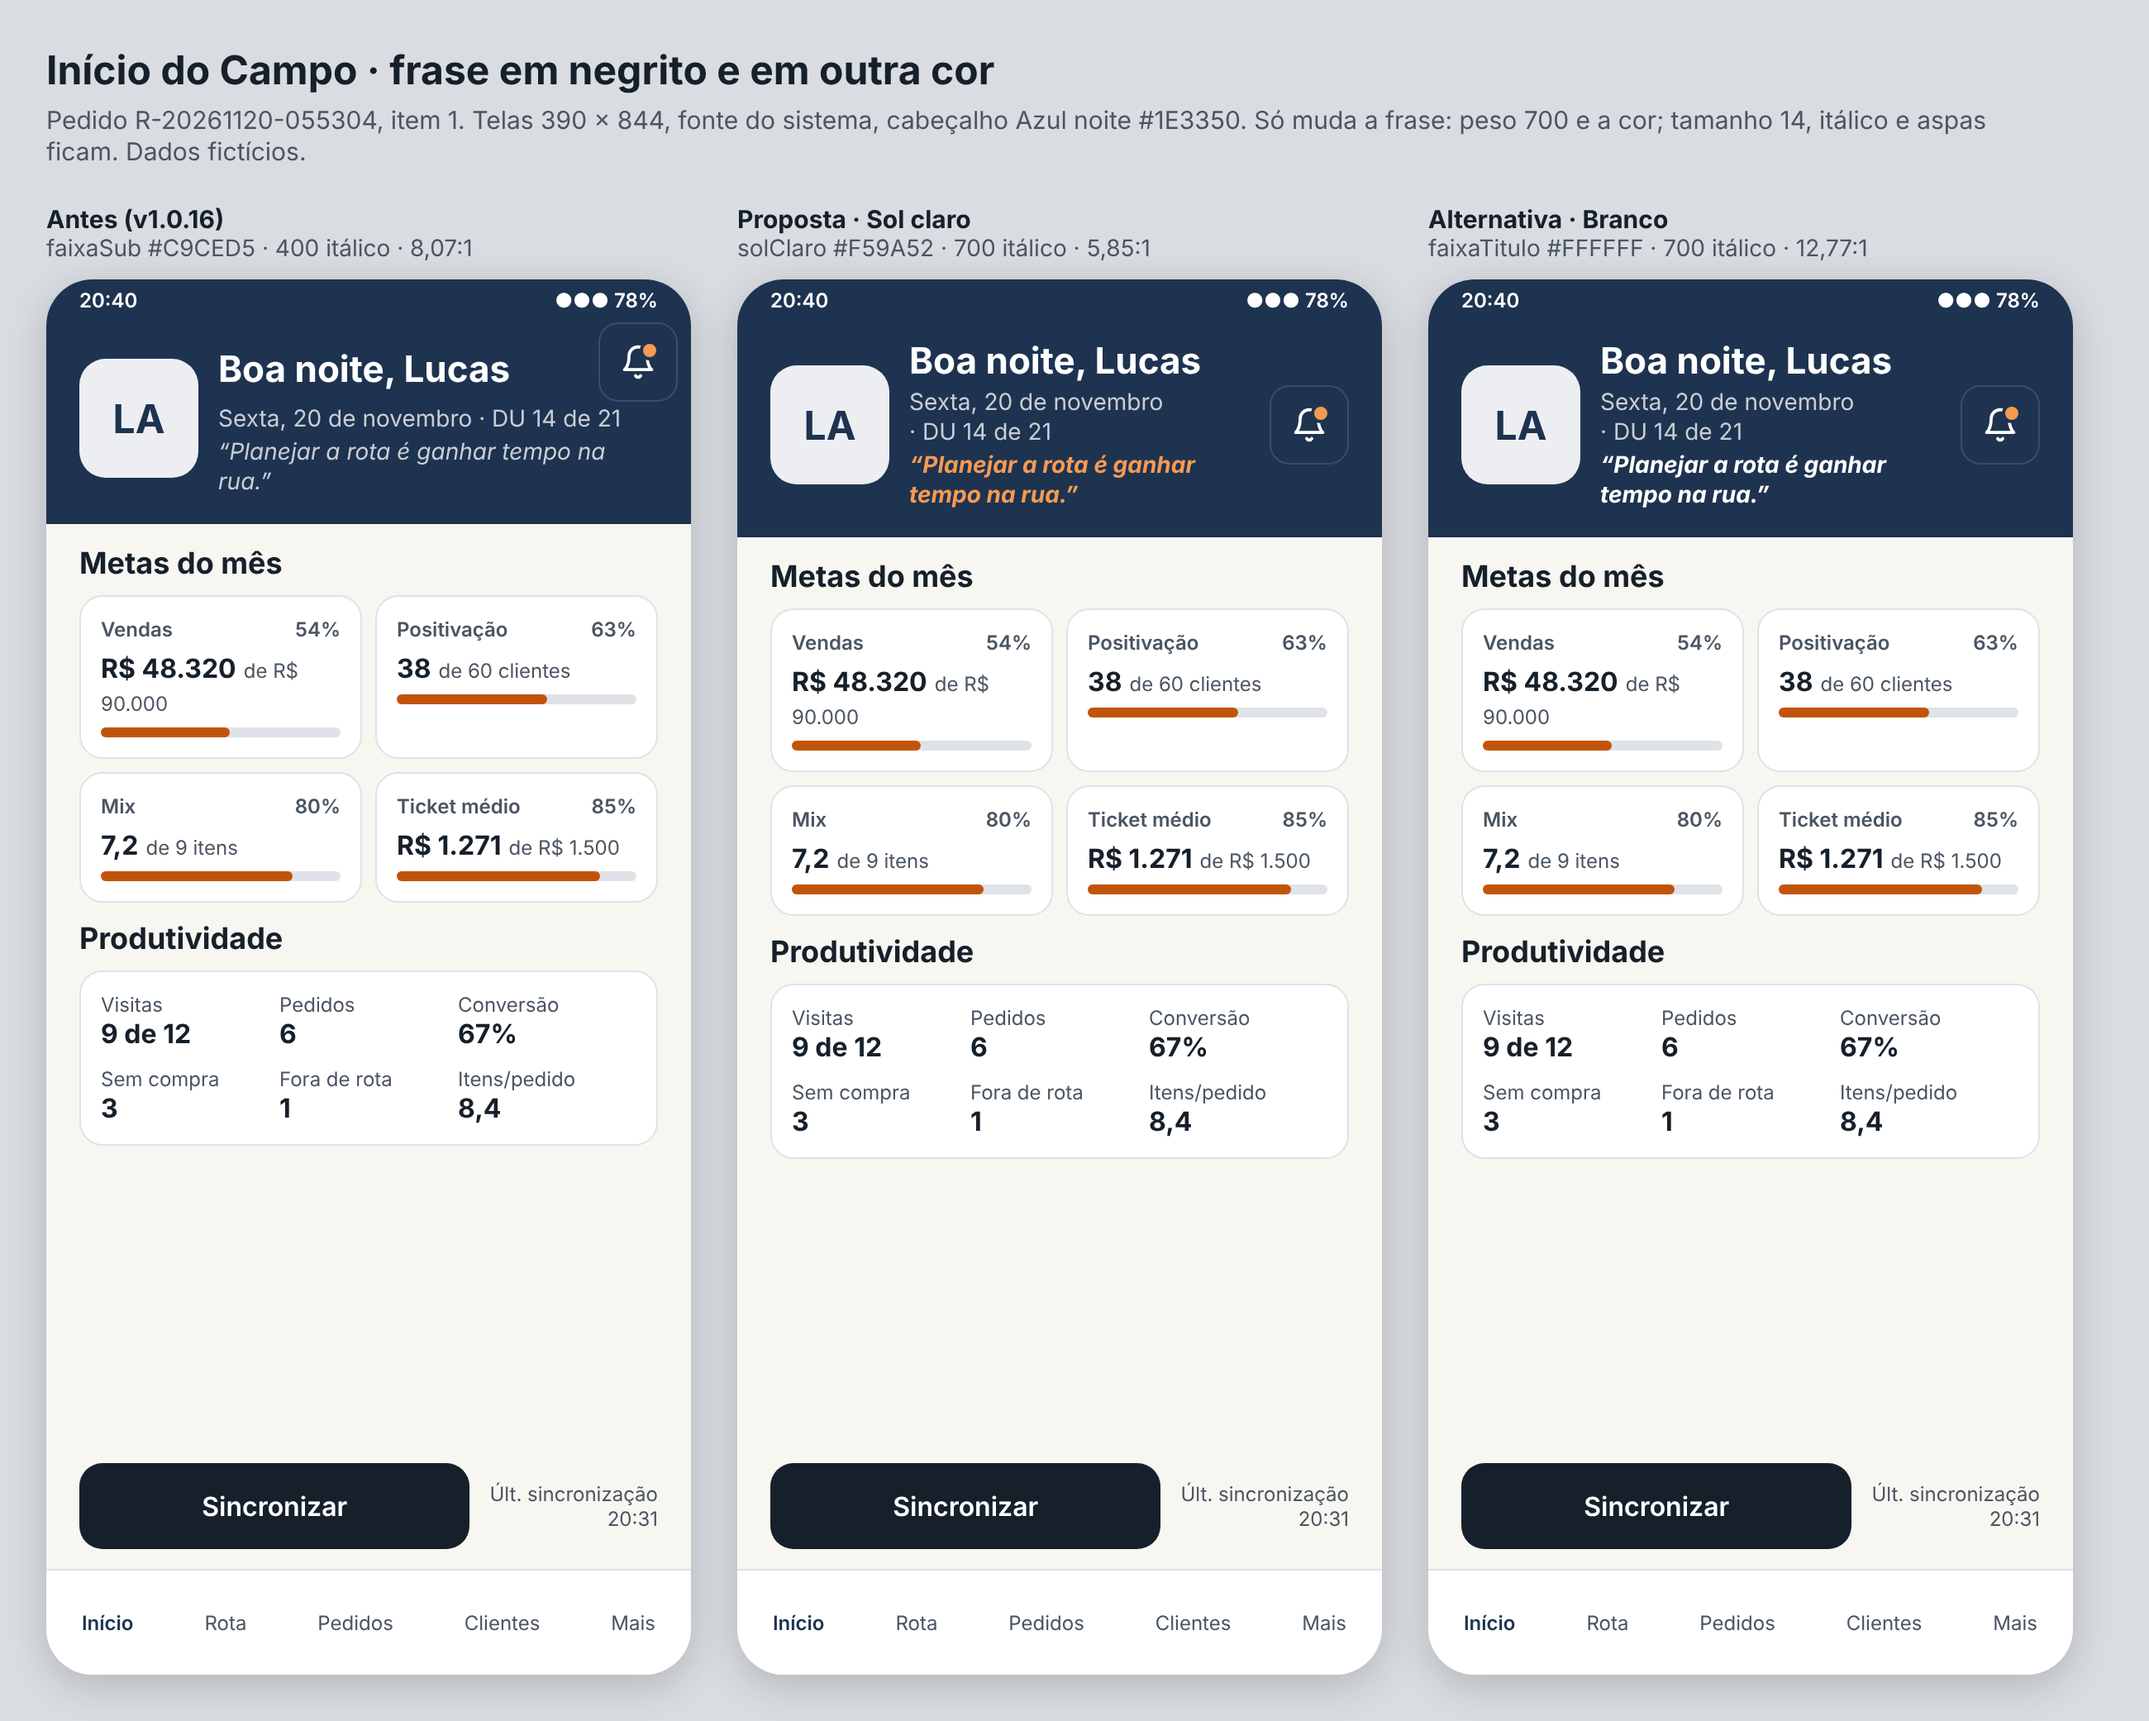
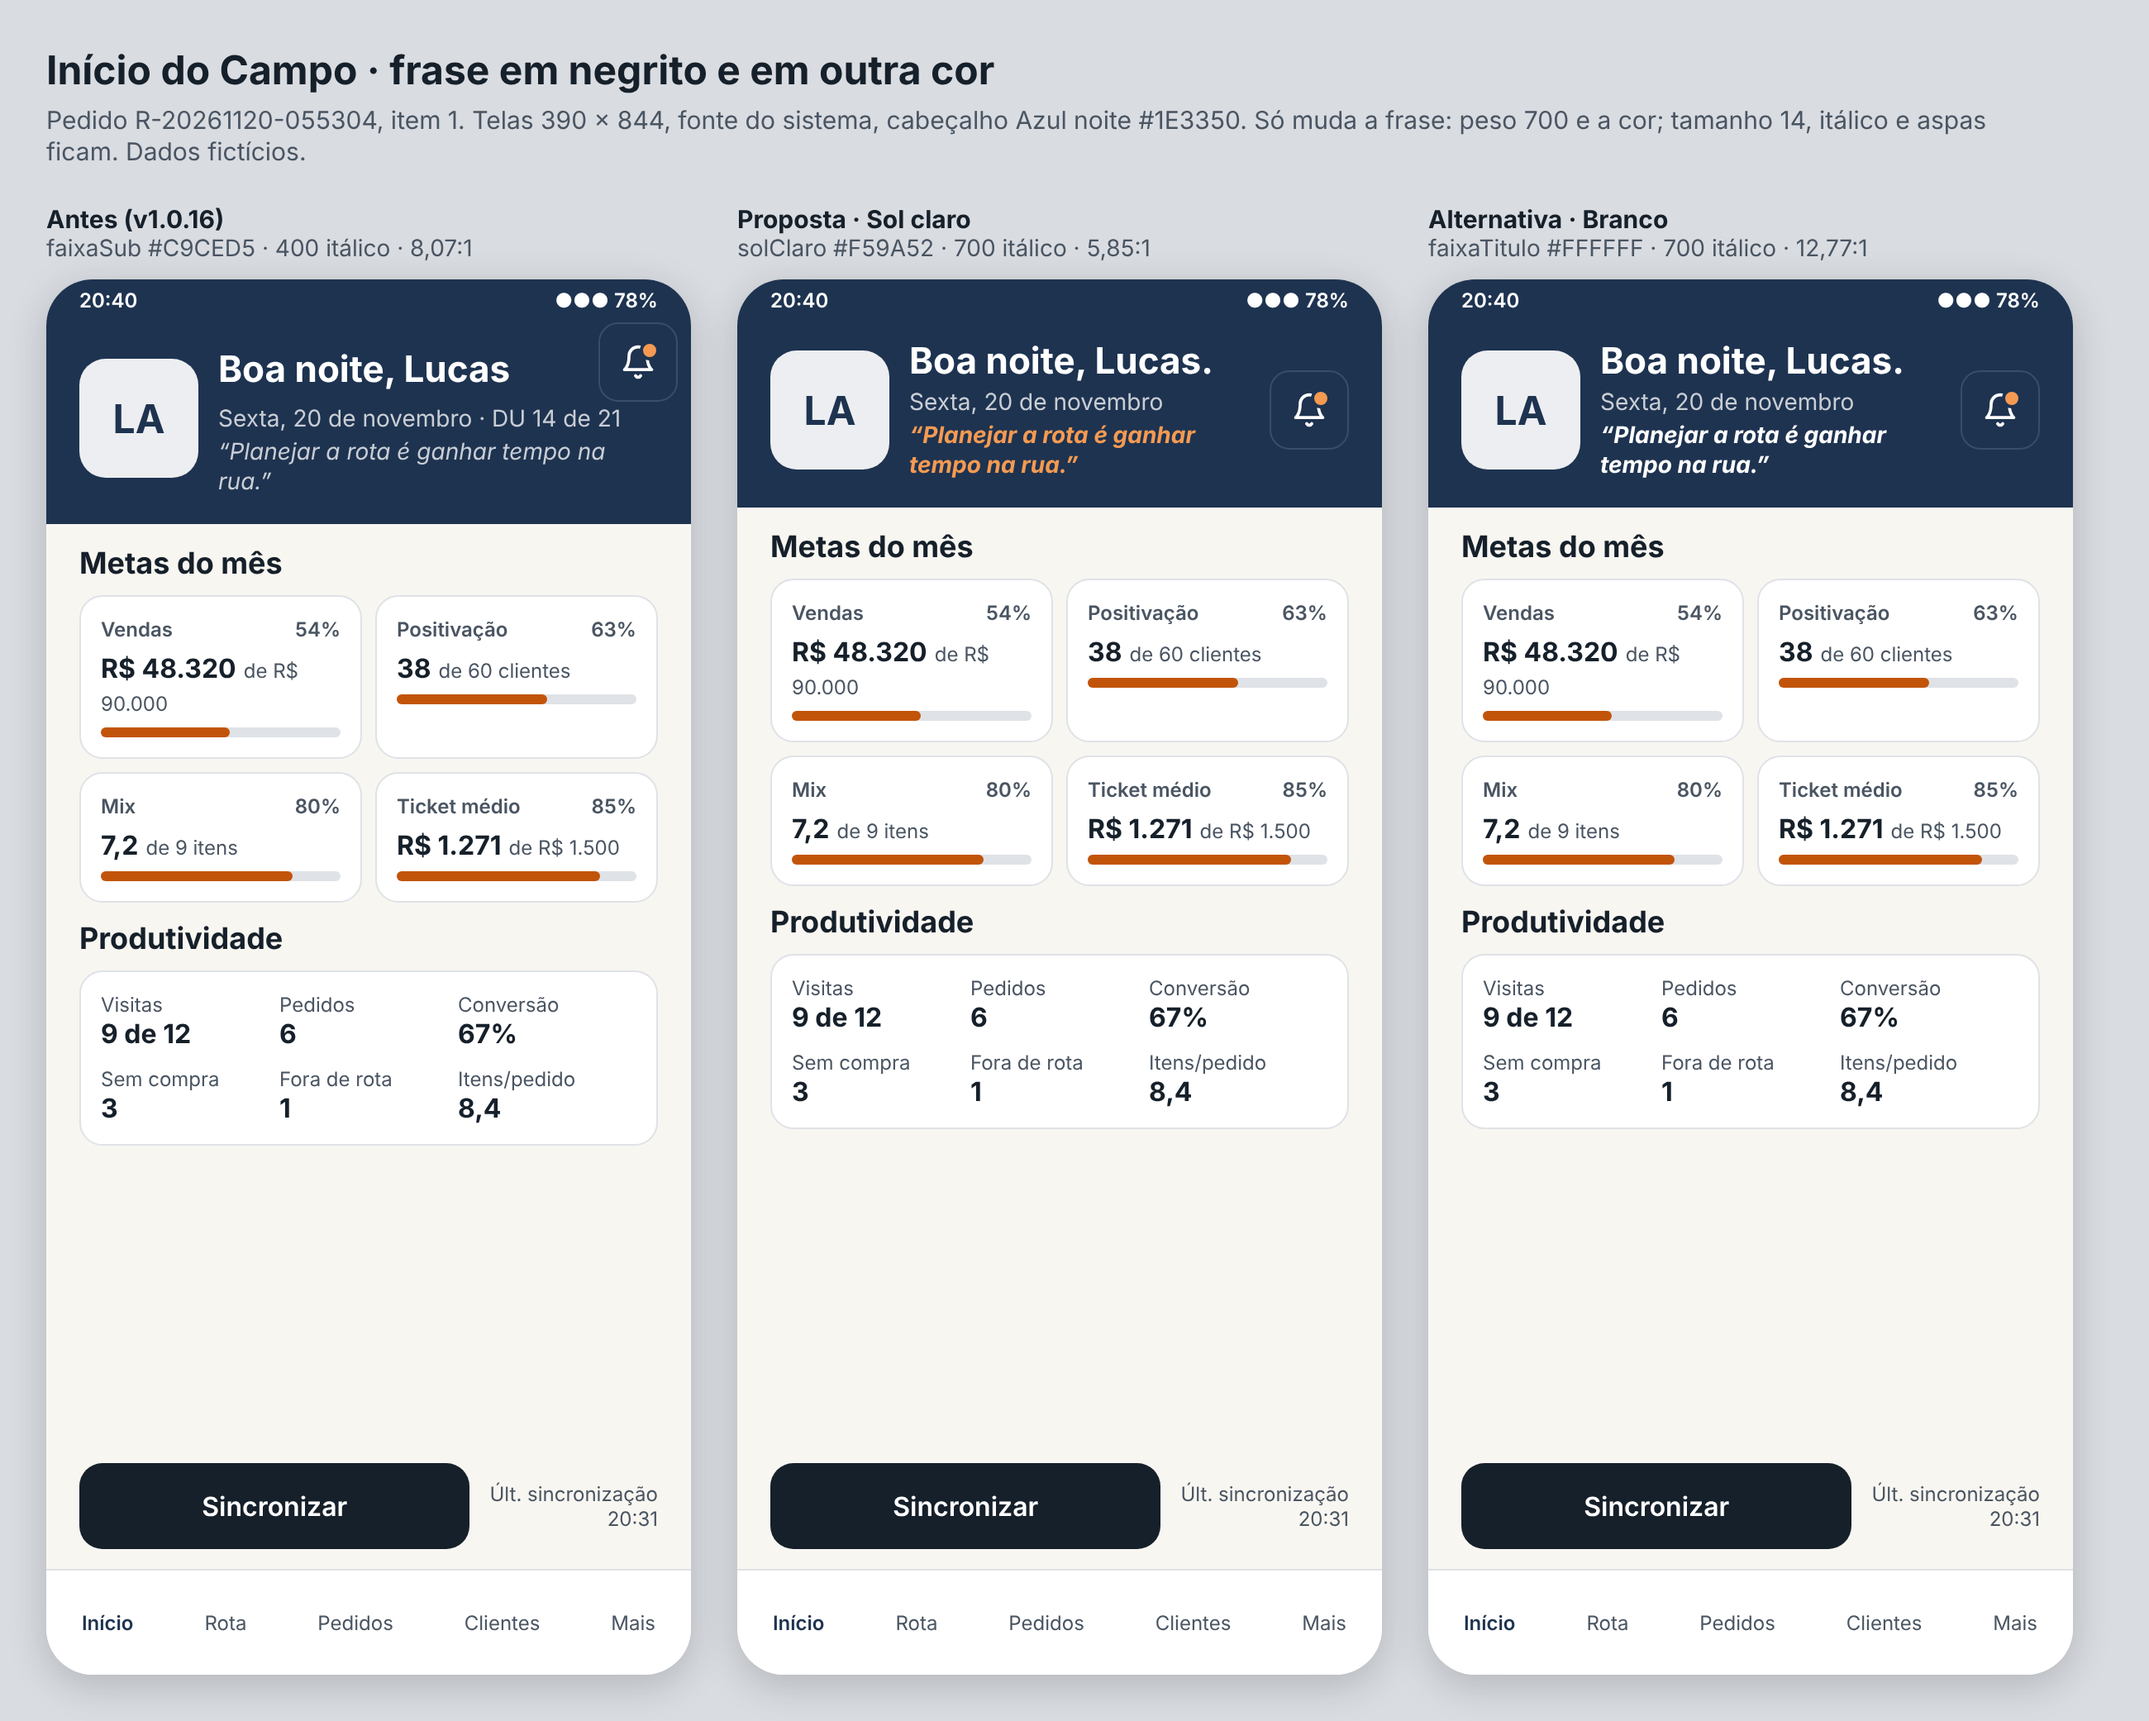
docs(marca): frase do Início em Sol claro 700 aprovada e print sem o DU
Aprovada a proposta recomendada (R-20261120-062210): frase motivacional
do Início do Campo em Sol claro #F59A52, negrito 700. Manual §3 ganha a
exceção, decisoes.md a linha e o README da proposta o estado.
Print: Proposta e Alternativa seguem os itens 3 e 4 do R-20261120-055304
(sem o "· DU 14 de 21" e com ponto na saudação); o Antes fica como a
v1.0.16. Frase confere em 2 linhas (390 x 844, 2x).

Agente: design-de-marca
Claude-Session: https://claude.ai/code/session_0157qAhnVnpJbGbQtBSGzUiW

diff --git a/docs/marca/propostas/2026-11-20-frase-inicio/frase-inicio.html b/docs/marca/propostas/2026-11-20-frase-inicio/frase-inicio.html
@@ -50,10 +50,10 @@ h1{font-weight:700;font-size:24px;margin-bottom:6px}.nota{font-size:15px;color:#
   <div class="av">LA</div>
   <div style="flex:1;display:flex;flex-direction:column;gap:2px;min-width:0">
     <div style="display:flex;justify-content:space-between;align-items:center">
-      <div style="font-weight:700;font-size:22px;line-height:28px;color:#FFFFFF">Boa noite, Lucas</div>
+      <div style="font-weight:700;font-size:22px;line-height:28px;color:#FFFFFF">Boa noite, Lucas.</div>
       
     </div>
-    <div style="font-size:14px;line-height:18px;color:#C9CED5">Sexta, 20 de novembro <span style="white-space:nowrap">· DU 14 de 21</span></div>
+    <div style="font-size:14px;line-height:18px;color:#C9CED5">Sexta, 20 de novembro</div>
     <div class="frase" style="font-size:14px;line-height:18px;font-style:italic;font-weight:700;color:#F59A52">“Planejar a rota é ganhar tempo na rua.”</div>
   </div><div class="sino"><svg width="22" height="22" viewBox="0 0 24 24" fill="none" stroke="#FFFFFF" stroke-width="2" stroke-linecap="round" stroke-linejoin="round"><path d="M6 8a6 6 0 0 1 12 0c0 7 3 9 3 9H3s3-2 3-9"/><path d="M10.3 21a1.94 1.94 0 0 0 3.4 0"/></svg><span class="bolinha"></span></div></div></div>
 <div class="meio"><div class="h2">Metas do mês</div><div class="grade">
@@ -69,10 +69,10 @@ h1{font-weight:700;font-size:24px;margin-bottom:6px}.nota{font-size:15px;color:#
   <div class="av">LA</div>
   <div style="flex:1;display:flex;flex-direction:column;gap:2px;min-width:0">
     <div style="display:flex;justify-content:space-between;align-items:center">
-      <div style="font-weight:700;font-size:22px;line-height:28px;color:#FFFFFF">Boa noite, Lucas</div>
+      <div style="font-weight:700;font-size:22px;line-height:28px;color:#FFFFFF">Boa noite, Lucas.</div>
       
     </div>
-    <div style="font-size:14px;line-height:18px;color:#C9CED5">Sexta, 20 de novembro <span style="white-space:nowrap">· DU 14 de 21</span></div>
+    <div style="font-size:14px;line-height:18px;color:#C9CED5">Sexta, 20 de novembro</div>
     <div class="frase" style="font-size:14px;line-height:18px;font-style:italic;font-weight:700;color:#FFFFFF">“Planejar a rota é ganhar tempo na rua.”</div>
   </div><div class="sino"><svg width="22" height="22" viewBox="0 0 24 24" fill="none" stroke="#FFFFFF" stroke-width="2" stroke-linecap="round" stroke-linejoin="round"><path d="M6 8a6 6 0 0 1 12 0c0 7 3 9 3 9H3s3-2 3-9"/><path d="M10.3 21a1.94 1.94 0 0 0 3.4 0"/></svg><span class="bolinha"></span></div></div></div>
 <div class="meio"><div class="h2">Metas do mês</div><div class="grade">

diff --git a/docs/marca/decisoes.md b/docs/marca/decisoes.md
@@ -17,5 +17,6 @@ Registro datado de cada decisão do Alexandre sobre a marca. Só entra aqui o qu
 | 2026-11-14 | **MC-0056 (logo do menu do BKO):** `macuxi-logo-negativo-grafite.svg` com ~28 px de altura e o nome da distribuidora numa linha abaixo, em `#C9CED5`, fora da área de proteção. | R-20261114-192700: "Aprovado 1 e 2 aprovado A" | `manual.md` §2.1 |
 | 2026-11-15 | **Fonte do sistema (meta v1.0.13):** texto e títulos em `system-ui, "Segoe UI", Roboto, -apple-system, sans-serif` em todas as superfícies (BKO, portal `config.`, app Campo, app Gestão); saem a Archivo e a IBM Plex, inclusive a Plex Mono. Códigos em `ui-monospace, "Cascadia Mono", "Roboto Mono", monospace`, com `tabular-nums`. Web: base 15 px, nada abaixo de 12 px, pensada para 1366×768. Escala web 12 · 13 · 15 · 17 · 20 · 24; app 12 · 14 · 16 · 18 · 22 · 28; pesos 400 texto, 500/600 ênfase, 700 títulos. **O logo não muda** (escrita em Archivo ExtraBold, em contorno). Substitui a tipografia de 12/11/2026 (Archivo e IBM Plex). | R-20261115-110600 | `manual.md` §5 |
 | 2026-11-15 | **Fonte do sistema, regras de detalhe:** aprovadas as regras de tamanho pelo papel, rótulo em 600, títulos do app, reserva do e-mail, número do pedido em texto e mínimo de 12 px; valem igual em Campo, Gestão, BKO, portal `config.`, PDFs e e-mails. | R-20261115-155500 | `manual.md` §5 |
+| 2026-11-20 | **Frase motivacional do Início do Campo:** Sol claro `#F59A52`, negrito 700, sobre o Azul noite `#1E3350` (5,85:1). | R-20261120-062210 | `propostas/2026-11-20-frase-inicio/`, `manual.md` §3 |
 
 A marca aprovada está em `manual.md` (v1, 12/11/2026, com os neutros e as séries de gráfico de 14/11/2026 e a fonte do sistema de 15/11/2026), com os arquivos finais em `ativos/2026-11-12-v1/`.

diff --git a/docs/marca/manual.md b/docs/marca/manual.md
@@ -52,7 +52,7 @@ O texto do logo está em contorno: os arquivos não dependem de fonte instalada.
 | **Pérola** | `#F8F6F1` | fundo das telas (app, BKO e portal) e fundo do ícone do Gestão |
 | Branco | `#FFFFFF` | cartões, campos, papel do PDF e corpo do e-mail |
 | **Sol laranja** | `#C2540A` | sol do logo e gráficos: barra de meta e de share, contador, marcador. **Nunca texto sobre claro** |
-| Sol claro | `#F59A52` | o sol e os gráficos sobre fundo escuro (Azul noite e grafite); como texto, só no título de grupo do menu e do painel do BKO, nunca em item, link ou botão (MC-0054, R-20261114-184400) |
+| Sol claro | `#F59A52` | o sol e os gráficos sobre fundo escuro (Azul noite e grafite); como texto, só no título de grupo do menu e do painel do BKO, nunca em item, link ou botão (MC-0054, R-20261114-184400); exceção: também na frase motivacional do Início do Campo, em 700 (R-20261120-062210) |
 | Grafite | `#16202A` | texto principal, botão Sincronizar, menu lateral do BKO |
 | Grafite do menu | `#2B3743` | só no menu lateral do BKO: tela atual, hover e divisória (MC-0055, R-20261114-184400) |
 | Texto secundário | `#4A5562` | texto de apoio |

diff --git a/docs/marca/propostas/2026-11-20-frase-inicio/README.md b/docs/marca/propostas/2026-11-20-frase-inicio/README.md
@@ -1,4 +1,4 @@
-# Frase do Início do Campo em negrito e em outra cor (proposta, aguardando aprovação)
+# Frase do Início do Campo: Sol claro 700 (aprovada em 20/11/2026, R-20261120-062210)
 
 20/11/2026 · design-de-marca · pedido do dono do produto no teste de campo do Campo v1.0.16 (R-20261120-055304, item 1).
 Print simulado (390 × 844, 2×): `frase-inicio.png` (antes · proposta · alternativa), com o `frase-inicio.html` ao lado;
@@ -20,7 +20,4 @@ itálico, aspas e até 2 linhas ficam como hoje (`docs/design/telas/inicio-cabec
 - **Branco `#FFFFFF` 700 (alternativa):** o maior contraste, 12,77:1; o destaque fica só no negrito.
 
 ## O que a aprovação muda no manual
-Hoje o manual (§3) só deixa o Sol claro como texto no título de grupo do menu e do painel do BKO. Se a proposta for
-aprovada, entra a exceção: **"e na frase motivacional do Início do Campo, em 700"**; continua proibido em item, link e
-botão. O `designer-ux` aplica pelo token (sem hex solto) em `docs/design/telas/inicio-cabecalho.md` e no kit, e o
-`modulo-core` na tela.
+Exceção registrada no `manual.md` §3.
